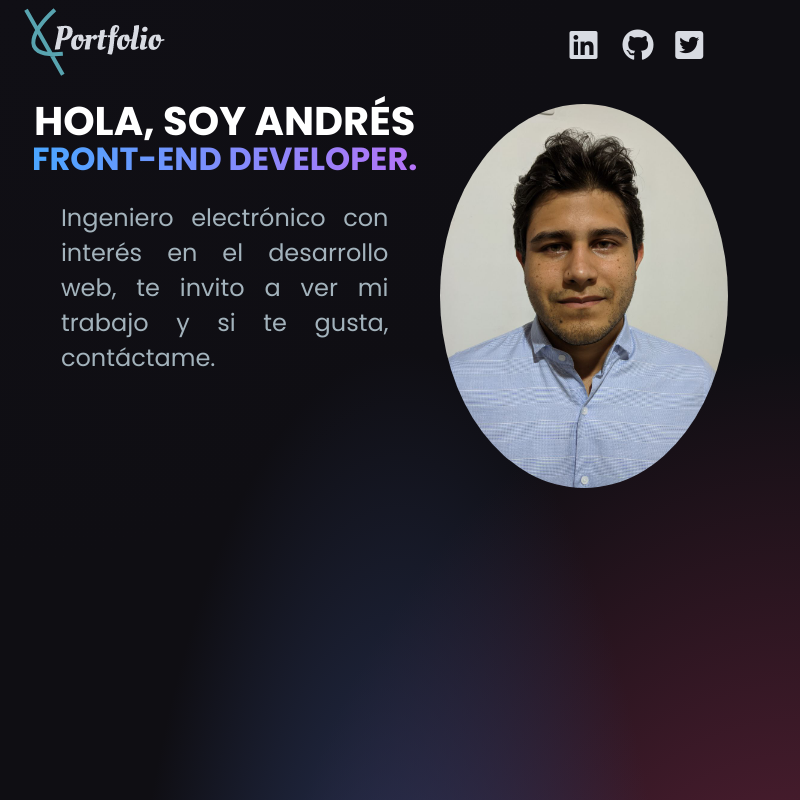
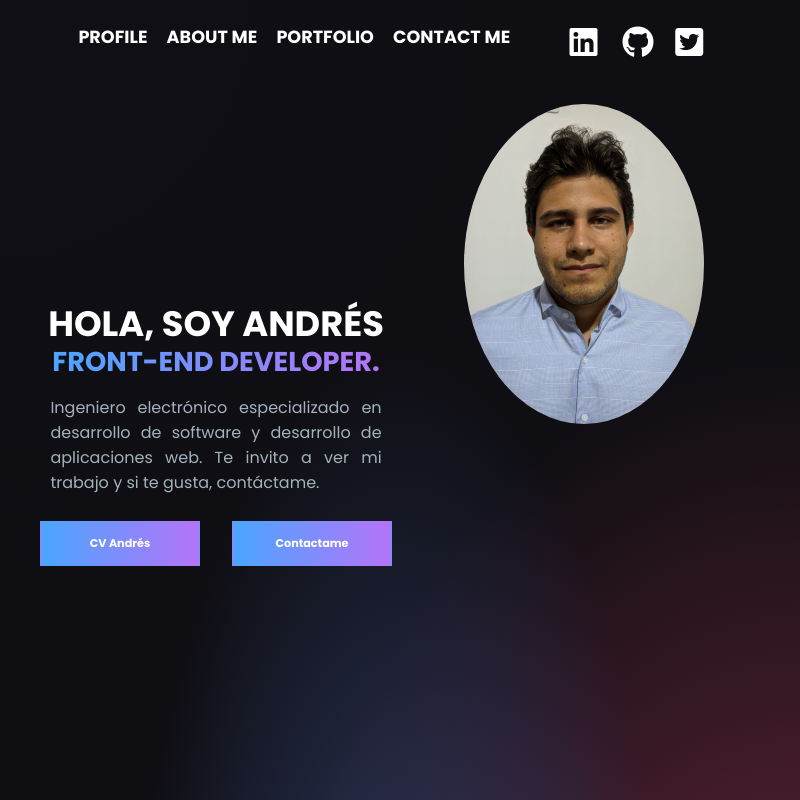
spanish version complete

diff --git a/index.html b/index.html
@@ -23,6 +23,7 @@
     <link rel="stylesheet" href="/../src/css/pages/projects.css" />
     <link rel="stylesheet" href="/../src/css/pages/contact.css" />
     <link rel="stylesheet" href="/../src/css/pages/modalbox.css" />
+    <link rel="stylesheet" href="/../src/css/pages/footer.css">
     <script
       type="text/javascript"
       src="https://cdn.jsdelivr.net/npm/@emailjs/browser@3/dist/email.min.js"
@@ -95,10 +96,10 @@
     </aside>
     <aside class="panel">
       <nav class="menu">
-        <a href="#main_section1" ">Profile</a>
-        <a href="#main_section2">About me</a>
-        <a href="#main_section3">Portfolio</a>
-        <a href="#main_section4">Contact me</a>
+        <a href="#main_section1" ">Perfil</a>
+        <a href="#main_section2">Sobre mi</a>
+        <a href="#main_section3">Proyectos</a>
+        <a href="#main_section4">Trabajemos juntos</a>
       </nav>
     </aside>
     <aside class="modalbox is-active" data-box>
@@ -121,12 +122,15 @@
           ver mi trabajo y si te gusta, contáctame.
         </p>
         <div class="profile_btncontainer">
-          <button
+          <a
+           href="https://firebasestorage.googleapis.com/v0/b/sandra-s-blog.appspot.com/o/CV_Andres%20Guevara.pdf?alt=media&token=c78cfa8d-8ff9-4f77-9bef-6a3475f10ba7"
             class="profile_btn"
-          >CV Andrés</button>
-          <button
+            target="_blank"
+          >CV Andrés</a>
+          <a
+            href="#main_section4"
             class="profile_btn"
-          >Contactame</button>
+          >Contactame</a>
         </div>
       </div>
       <figure class="profile_right">
@@ -280,9 +284,9 @@
       </section>
       <section id="main_section4" class="section contactme">
         <div class="contactme_container">
-          <h1 class="contactme_tittle">Did you like my work?</h1>
+          <h1 class="contactme_tittle">¿Te gusto mi trabajo?</h1>
           <p class="contactme_info">
-            Send me a message, I'll contact you soon.
+            Enviamé un mensaje y pronto me pondre en contacto contigo.
           </p>
         </div>
         <div class="contactme_formcontainer">
@@ -292,7 +296,7 @@
                 type="text"
                 id="name"
                 maxlength="256"
-                placeholder="Name"
+                placeholder="Nombre"
                 class="contactme_formitems contactme_name"
                 required
               />
@@ -310,14 +314,14 @@
               type="text"
               id="subject"
               maxlength="256"
-              placeholder="Subject"
+              placeholder="Asunto"
               class="contactme_formitems contactme_subject"
               required
             />
             <textarea
               maxlength="256"
               id="message"
-              placeholder="Message"
+              placeholder="Mensaje"
               class="contactme_formitems contactme_message"
               cols="30"
               rows="10"
@@ -326,7 +330,7 @@
             <div class="contactme_submitcontainer">
               <input
                 type="submit"
-                value="Send Message"
+                value="Enviar Mensaje"
                 class="contactme_submit"
               />
             </div>
@@ -334,6 +338,10 @@
         </div>
       </section>
     </main>
+    <footer class="footer_section">
+   
+      <p class="footer_info">© 2023 PilotBase6. Todos los derechos reservados.</p>
+    </footer>
     <script src="./app.js" type="module"></script>
   </body>
 </html>

diff --git a/src/css/pages/profile.css b/src/css/pages/profile.css
@@ -6,7 +6,7 @@ main {
 .section {
   position: relative;
   padding: 2rem;
-  padding-top: 5.5rem;
+  padding-top: 6rem;
   margin-left: auto;
   margin-right: auto;
   width: 100%;
@@ -27,6 +27,7 @@ main {
   display: flex ;
   flex-direction: column;
   align-items: center;
+  margin-bottom: 2rem;
 }
 
 .profile_title {
@@ -48,7 +49,7 @@ main {
   -webkit-background-clip: text;
   background-clip: text;
   color: transparent;
-  font-size: 1.4rem;
+  font-size: 1.6rem;
   white-space: nowrap;
   overflow: hidden;
 
@@ -58,7 +59,8 @@ main {
   width: 100%;
   display: flex;
   justify-content: center;
-  margin-top: .6rem;
+  margin-top: 1rem;
+  
 }
 
 .profile_btn{
@@ -76,13 +78,14 @@ main {
   cursor: pointer;
   margin-left: 2rem;
   text-align: center;
+  text-decoration: none;
 }
 .profile_btn:first-child{
   margin-left: 0;
 }
 
 .profile_photo {
-  width: 10rem;
+  width: 12rem;
   height: auto;
   border-radius: 100%;
 }
@@ -118,12 +121,14 @@ main {
   }
   
   .profile_right{
-    place-self: stretch;
+    place-self: center;
+   
    
   }
 
   .profile_photo {
     width: 15rem;
+    
     
   }
   
@@ -134,7 +139,7 @@ main {
   .profile_btn{
     width: 10rem;
     padding: .8rem;
-    font-size: .7rem;
+    font-size: .9rem;
   }
   
 }
@@ -152,7 +157,8 @@ main {
   }
   
   .profile_title {
-    font-size: 3.2rem;  
+    font-size: 3.2rem; 
+    line-height: 50px; 
   }
   
   .profile_title span {
@@ -160,7 +166,7 @@ main {
   }
 
   .profile_right{
-    place-self: stretch;
+    place-self: center;
    
   }
   .profile_photo {

diff --git a/src/css/pages/footer.css b/src/css/pages/footer.css
@@ -1,0 +1,20 @@
+
+.footer_section{
+    position: relative;
+    z-index: 1;
+    display: flex;
+    flex-direction: column;
+    justify-content: center;
+    align-items: center;
+    width: 100%;
+    height: 4rem;
+    background-color: #0f0e13;
+    margin-top: 3rem;
+    
+}
+
+.footer_info{
+    position: absolute;
+    color: #fff !important;
+    text-align: center;
+}

diff --git a/src/css/blocks/base.css b/src/css/blocks/base.css
@@ -36,6 +36,7 @@ body {
   }
 
   .bg{
+    z-index: 0;
     position: fixed;
     width: 100%;
     height: 100vh;
